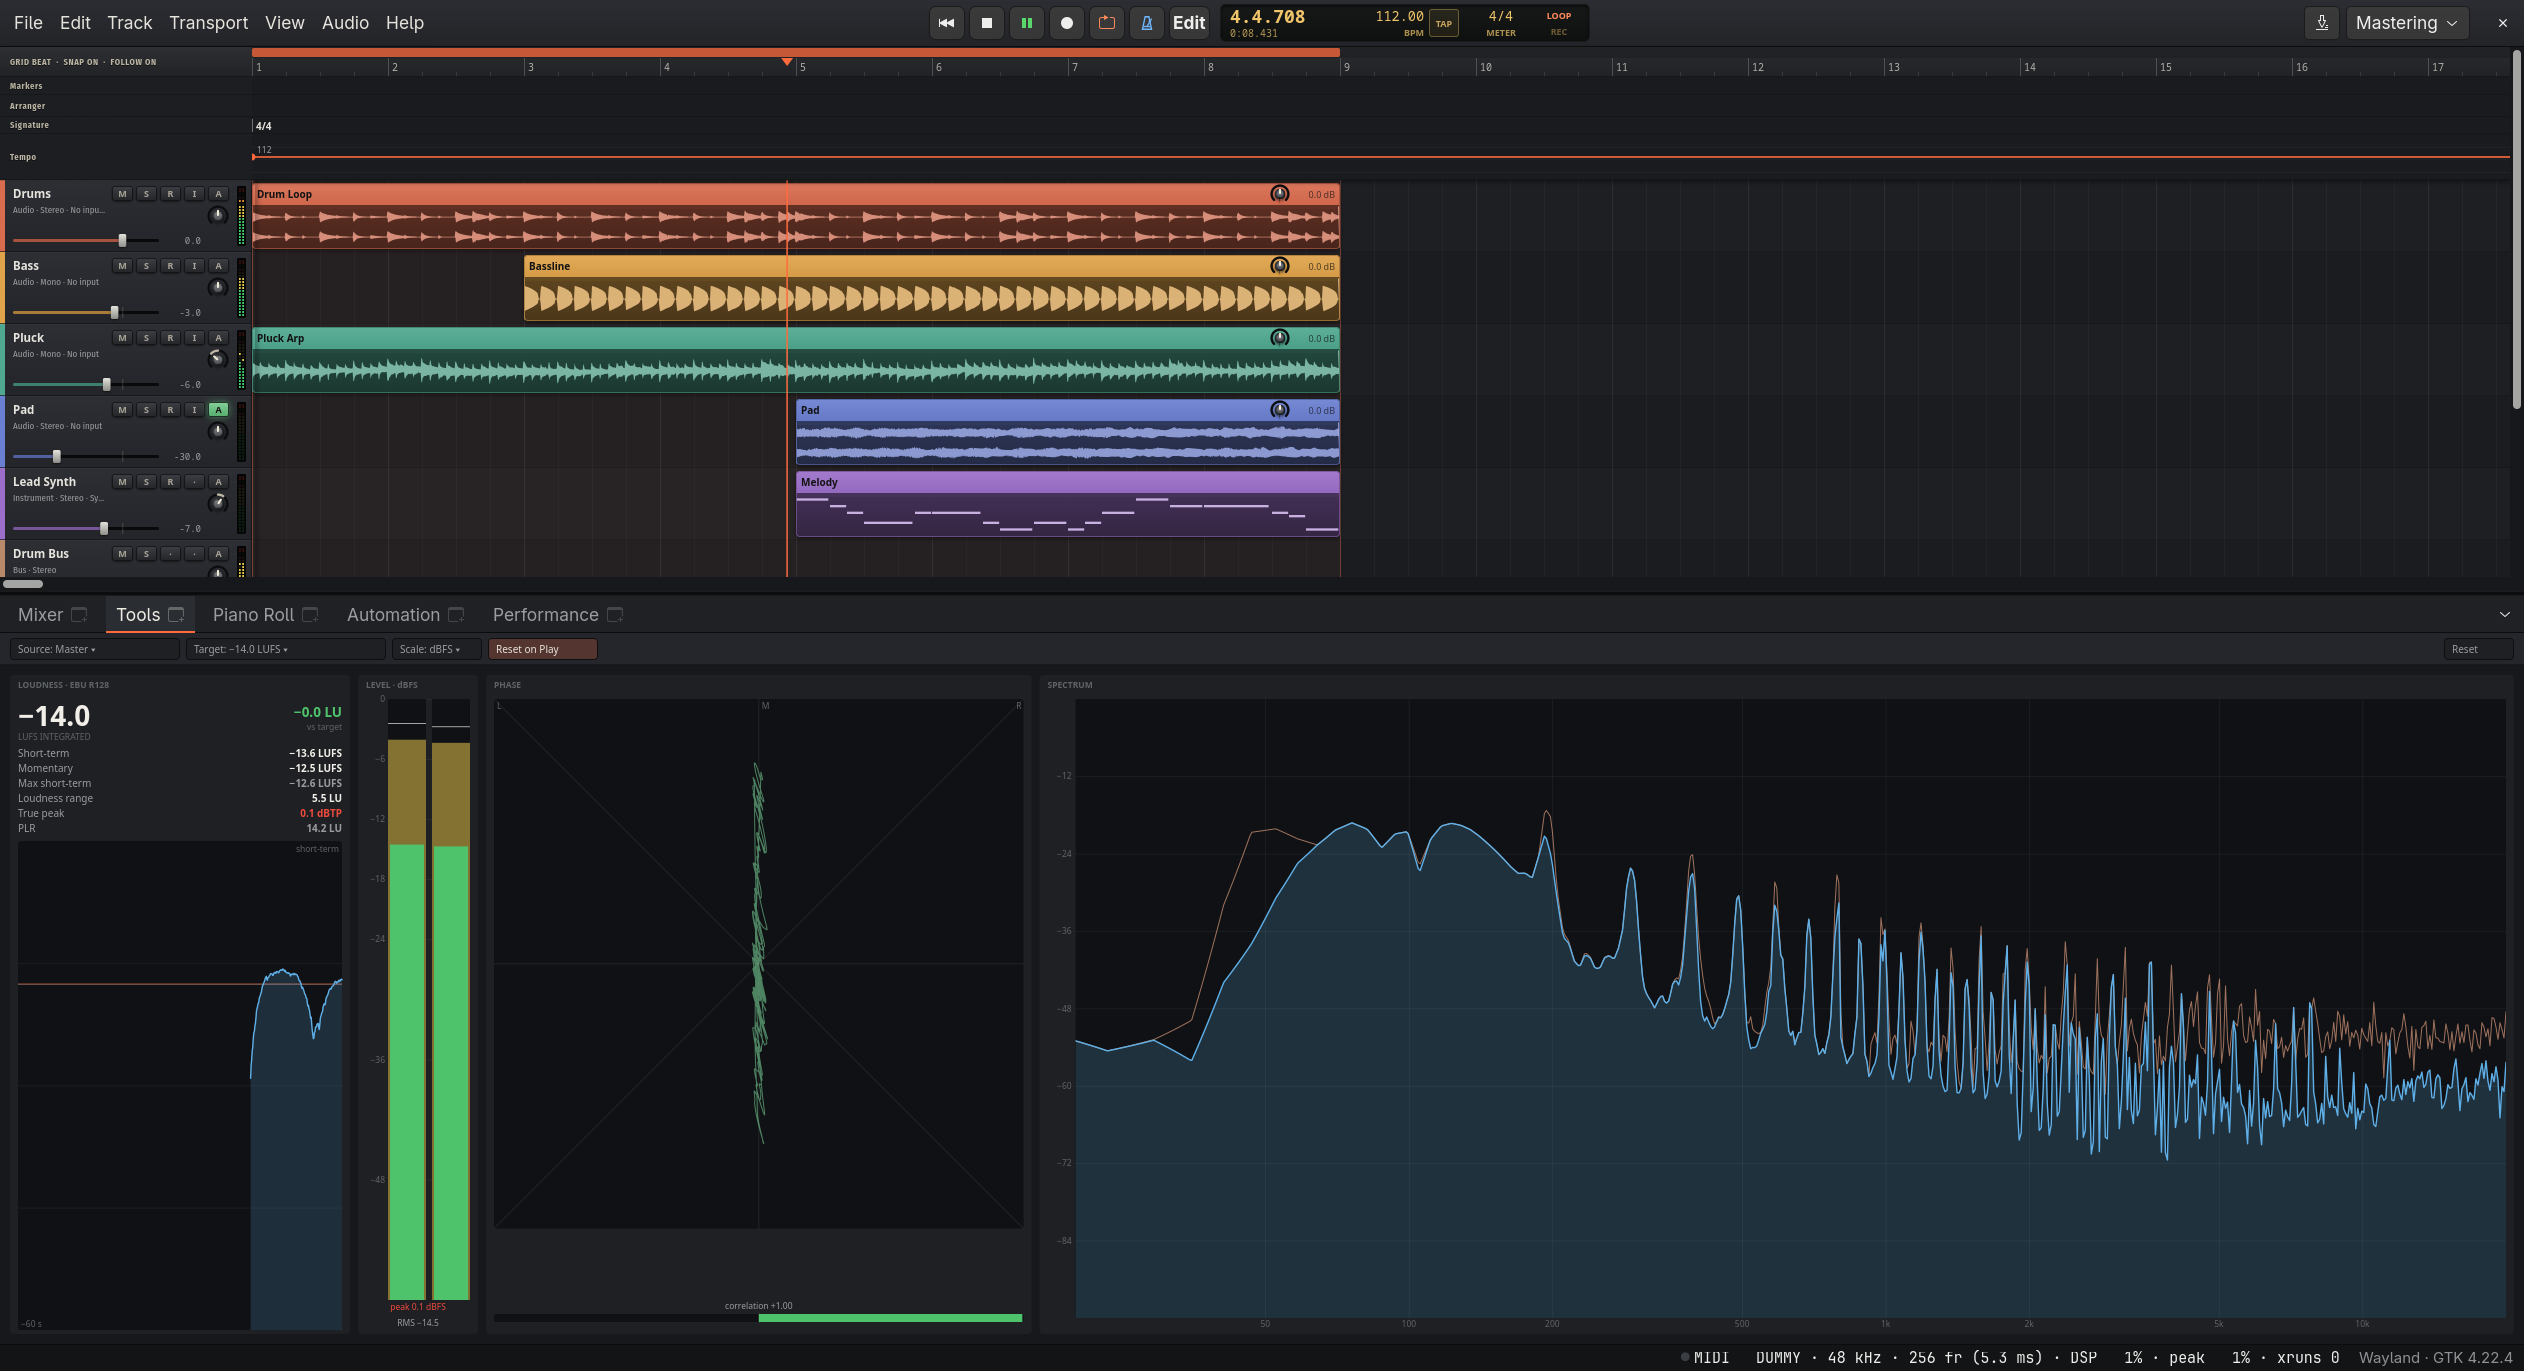
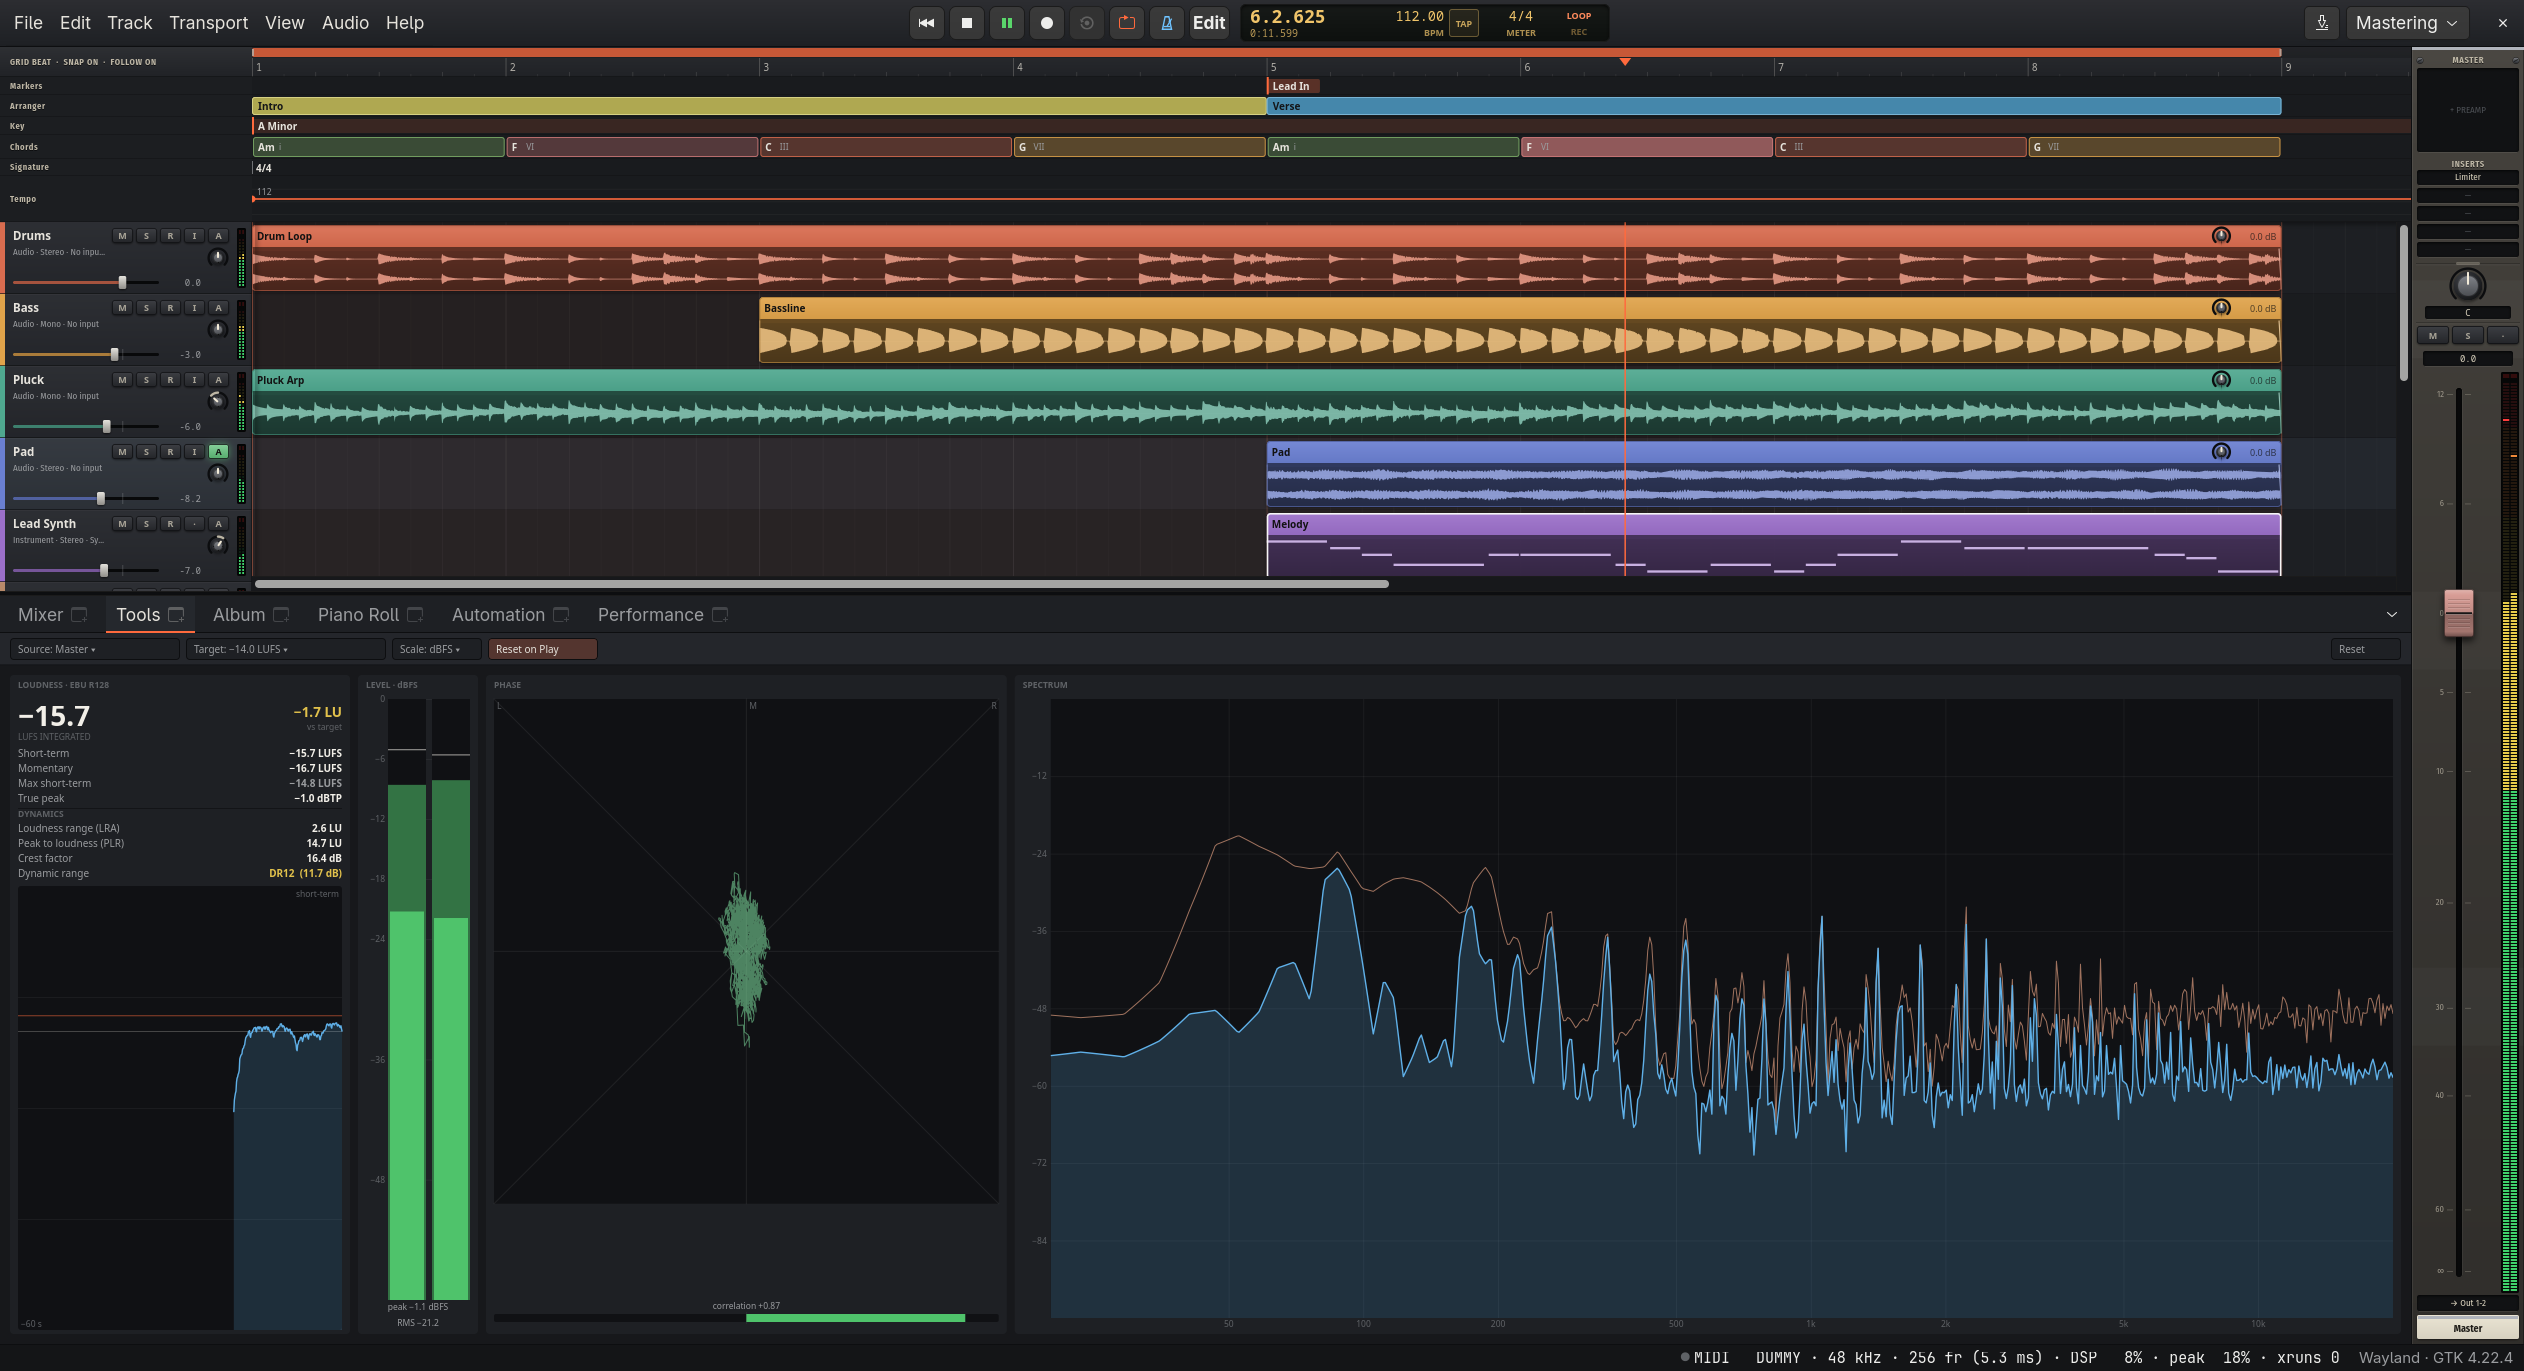
README: up to date, with new screenshots of the extended demo
The README describes what FaderFrame does now: modulators (per note
too), CLAP's non-destructive and polyphonic modulation, containers, the
sampler's start and end points and held keys, the Modulators tab, the
arranger's wheel and scrollbar behaviour, the shortcuts added since
(new tracks, Capture MIDI, Save Version, the command palette) and that
every shortcut can be changed; the engine line no longer lists the first
built-in plugins only.

New screenshots, all of the extended demo: the Editing workspace (global
lanes, a folder, the pad's modulators), the Mixing workspace, the piano
roll under the key and chord tracks, the Mastering workspace, the album,
six device editors and the seven skins.

Claude-Session: https://claude.ai/code/session_016ACA3h9Xm4rTgvjXC2vUiY

diff --git a/README.md b/README.md
@@ -6,9 +6,12 @@ come from the same code.
 
 FaderFrame aims to be a professional DAW: graph-based routing with buses,
 aux sends and sidechains, hard-realtime multicore audio processing with
-automatic plugin delay compensation, MIDI and virtual instruments,
-automation, CLAP/VST3 hosting, an analogue-console-style mixer, mastering
-meters and dockable, detachable editors.
+automatic plugin delay compensation, MIDI and virtual instruments with a
+key, a chord track and MIDI effects, modulators and parallel effect
+containers, automation, CLAP/VST3 (and Audio Unit) hosting, an
+analogue-console-style mixer, a full set of stock devices, mastering
+meters, album delivery down to CD and vinyl masters, and dockable,
+detachable editors.
 
 > **Status: in active development.** Most of a working DAW is there; see
 > [docs/ARCHITECTURE.md](docs/ARCHITECTURE.md#status-and-roadmap) for what
@@ -16,18 +19,46 @@ meters and dockable, detachable editors.
 
 ## Screenshots
 
-The demo session playing — Mixing workspace:
+All of them show the demo session (`--demo`, or Preferences → General →
+On start-up): eight bars in A minor whose audio is generated, so it needs
+no files.
+
+The Editing workspace: markers, the Intro and Verse sections, the key and
+the chord track above the tracks, the arpeggios in a folder, and in the
+bottom dock the pad's modulators — an envelope follower that ducks it under
+the drums and a synced LFO that moves it across the stereo field:
+
+![Editing workspace with the global lanes, a folder and the Modulators panel](docs/screenshots/editing.png)
+
+The Mixing workspace: a preamp on the bass, inserts, sends to an echo and
+a reverb aux, a MIDI track's strip (it plays the arpeggiating synth), the
+drum bus's parallel-compression container and a true-peak limiter on the
+master:
 
 ![Mixing workspace with the analogue-console mixer](docs/screenshots/mixing.png)
 
-The MIDI workspace with the piano roll editing the lead synth's melody:
+The MIDI workspace with the piano roll editing the lead synth's melody,
+the key and the chords above the notes and the scale highlighted:
 
-![Piano roll showing a MIDI clip](docs/screenshots/piano-roll.png)
+![Piano roll showing a MIDI clip under the key and chord tracks](docs/screenshots/piano-roll.png)
 
 The Mastering workspace with the Tools view (EBU R128 loudness, levels,
 phase and spectrum):
 
 ![Mastering workspace with loudness, level, phase and spectrum meters](docs/screenshots/mastering.png)
+
+The album: the demo's sections as songs, analysed, with what delivery will
+make of them (levelling, limiting) and the CD and vinyl masters a click
+away:
+
+![The album view with two songs analysed](docs/screenshots/album.png)
+
+Device editors: the EQ (dynamic and spectral bands, analyser), the synth
+(the dots on Cutoff and Resonance show where its modulators have them
+now), the compressor, the reverb, the Parallel Squash container on the
+drum bus and the program EQ:
+
+![EQ, synth, compressor, reverb, container and program EQ editors](docs/screenshots/devices.png)
 
 Seven skins, switched live (View → Theme or Preferences → General → Theme):
 Studio, Vintage Console (walnut cheeks, enamel panels, skirted knobs,
@@ -42,7 +73,9 @@ Contrast:
 * Arranger (virtualised): tracks, audio clips with waveforms, MIDI clips,
   move/split/delete, snapping, zoom down to single samples, loop range,
   playhead, console-style track headers with mute/solo/arm/monitor, volume,
-  pan and meters. Clicking a clip selects it and moves the playhead to the
+  pan and meters (the wheel over the headers turns their faders and knobs
+  and never scrolls; a held scrollbar stops the view following the
+  playhead). Clicking a clip selects it and moves the playhead to the
   (snapped) click; Shift- or Ctrl-click selects more clips, and moves,
   trims, fades and gain changes apply to every selected clip.
 * Global lanes under the ruler (click a lane's title to show or hide
@@ -172,8 +205,8 @@ Contrast:
 * Adding tracks: the "+" under the last track in the arranger and right of
   the last strip in the mixer (each kind of track, or one from a saved
   track preset; an instrument track opens the plugin browser).
-* Docking: mixer / Tools / album / piano roll / automation / performance
-  tabs in a bottom dock, detach any view into its own window and dock it back,
+* Docking: mixer / Tools / album / piano roll / automation / performance /
+  undo history / modulators tabs in a bottom dock, detach any view into its own window and dock it back,
   workspaces (Recording, Editing, Mixing, MIDI, Mastering), layouts saved
   with the project. View → Master Strip at the Side keeps the master fader
   at the window's right edge, full height, whatever view is shown (per
@@ -203,8 +236,32 @@ Contrast:
   each song's file and a cutting sheet.
 * Engine: routing graph with cycle detection and plugin delay compensation,
   buses, auxes, sends, sidechains, solo-in-place, sample-accurate loops,
-  built-in synth, echo, gain and latency-probe plugins,
-  realtime-safe (verified by an allocation-counting test).
+  realtime-safe (verified by allocation-counting tests over every device,
+  modulator and container).
+* Modulators (View → Modulators, a tab in the bottom dock, for the
+  selected track): LFOs (five shapes, synced to the beat or free, start
+  phase), envelope followers (the track's own input or another track),
+  step sequences (up to 32 steps, drawn with the mouse, with glide),
+  smoothed random and macro knobs — and per note: velocity, key, a note
+  envelope, a note LFO and a note random, a value for every sounding
+  note. Each moves any number of targets with a depth: the track's fader
+  (in fader travel) and pan and every device parameter that takes
+  modulation; Map, then move a control, routes it. Modulation never
+  changes a value — automation, presets and saved state keep what you set,
+  and the device knobs show a dot where modulation has the value now.
+  Synced modulators follow the song position, so every playback and every
+  render of a passage sounds alike.
+* CLAP modulation: CLAP parameters take FaderFrame's modulation without
+  their values changing (CLAP's parameter modulation events), and
+  per-note modulators reach single voices of CLAP instruments that offer
+  polyphonic modulation (by key or note id — with u-he Diva, for example,
+  each note's filter moves on its own), also through the plugin sandbox.
+* Containers (insert a Container): parallel chains of devices, each with
+  its own level, balance, mute and solo, mixed at the container's output —
+  parallel compression, dry/wet blends, split effects; a chain without
+  devices is the dry signal, containers nest, and the chains' latencies
+  are aligned automatically. Its editor shows a column a chain: add
+  devices and chains, drag levels, open the devices' editors.
 * Stock dynamics with editors of their own: a compressor (five styles,
   soft knee, lookahead, auto release and makeup, colour, mix, a filtered
   sidechain), a true-peak lookahead limiter that never passes its ceiling,
@@ -217,7 +274,9 @@ Contrast:
   decay), chorus/ensemble/flanger/phaser/vibrato, and a tuner.
 * Stock instruments: a virtual analogue synth (unison, sub, noise, four
   filter types, two envelopes, LFO, mono/legato with glide), a sampler
-  that plays a sample across the keys or an SFZ instrument, and a
+  that plays a sample across the keys (between start and end markers
+  dragged on its waveform, forwards or reversed, looped or not, every key
+  held lit on its keyboard) or an SFZ instrument, and a
   sixteen-pad drum sampler with choke groups. Both samplers can keep a
   sample's length when they change its pitch (Sampler: Keep Length;
   Drum Sampler: per pad), through the same stretcher as warping, without
@@ -465,8 +524,12 @@ shows where the data goes.
 | F8 | Performance meter |
 | F12 | Tools (loudness, level, phase, spectrum) |
 | Ctrl+1 … Ctrl+5 | Workspaces |
+| Ctrl+T / Ctrl+Shift+T | New audio track / new instrument track |
 | Ctrl+I | Import audio files |
 | Ctrl+Shift+R | Render / export |
+| Ctrl+Shift+C | Capture MIDI (what was played last becomes clips) |
+| Ctrl+Alt+S | Save a version of the project |
+| Ctrl+Shift+P | Command palette |
 | Ctrl+, | Preferences |
 | Ctrl+wheel / Shift+wheel | Zoom / scroll horizontally |
 | Shift or Ctrl while dragging | Fine adjustment |
@@ -483,6 +546,8 @@ shows where the data goes.
 | Tab / Shift+Tab | Next / previous clip boundary or transient (Ctrl: extend the selection) |
 | Ctrl+Shift+↑ / ↓ | Clip gain ±0.5 dB |
 | Ctrl+] / Ctrl+[ | Zoom in / out |
+
+View → Keyboard Shortcuts… changes any command's shortcut.
 
 ## Development
 
